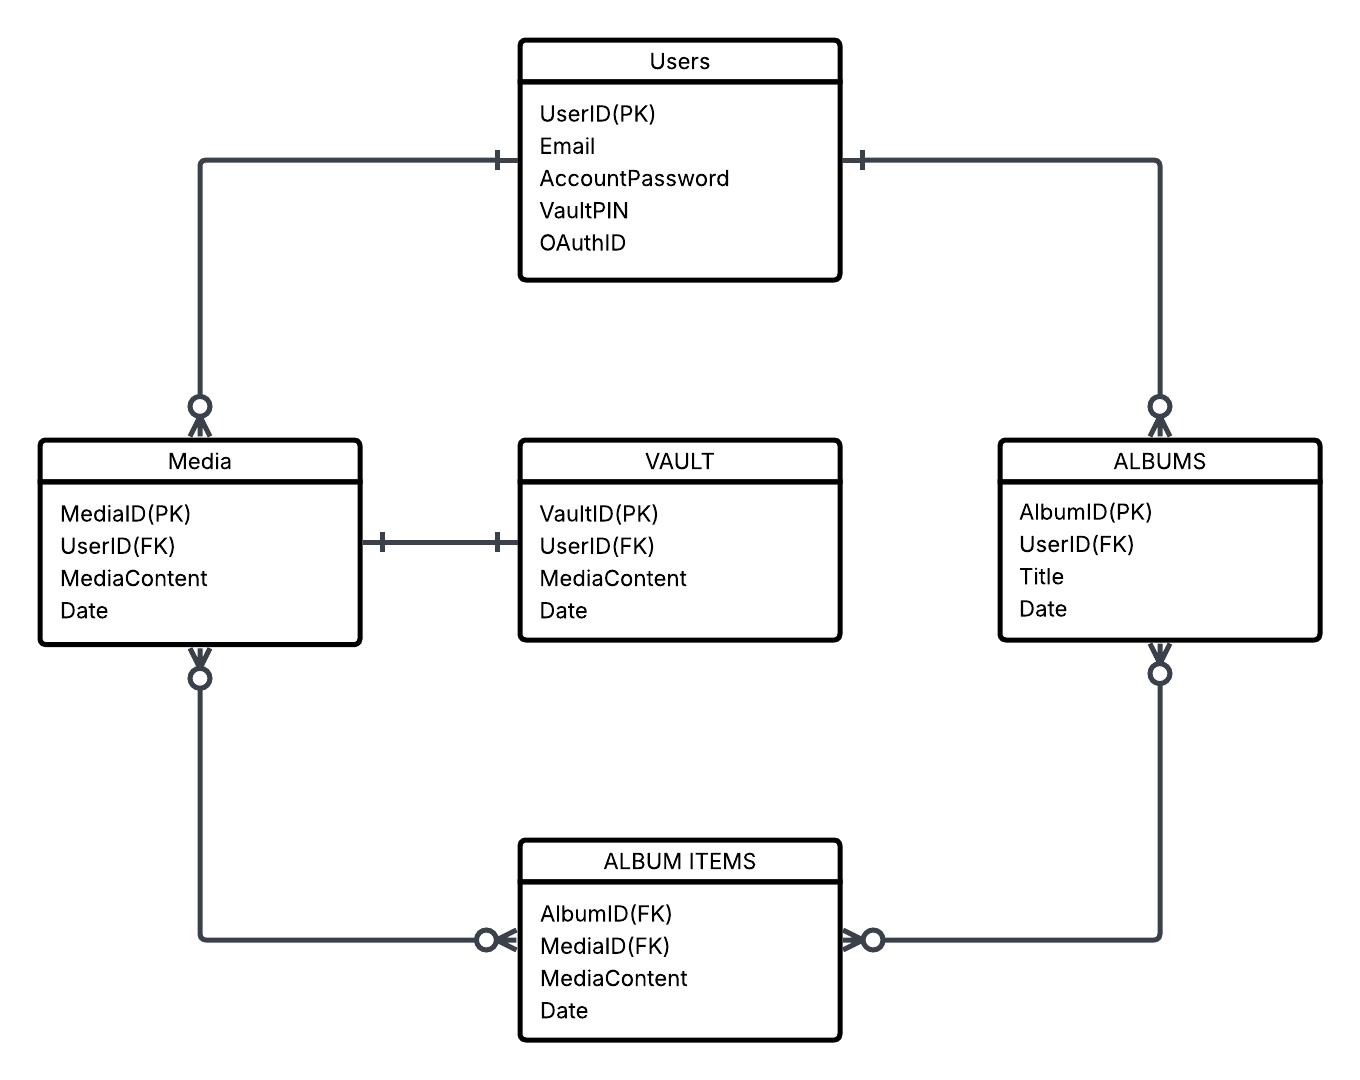
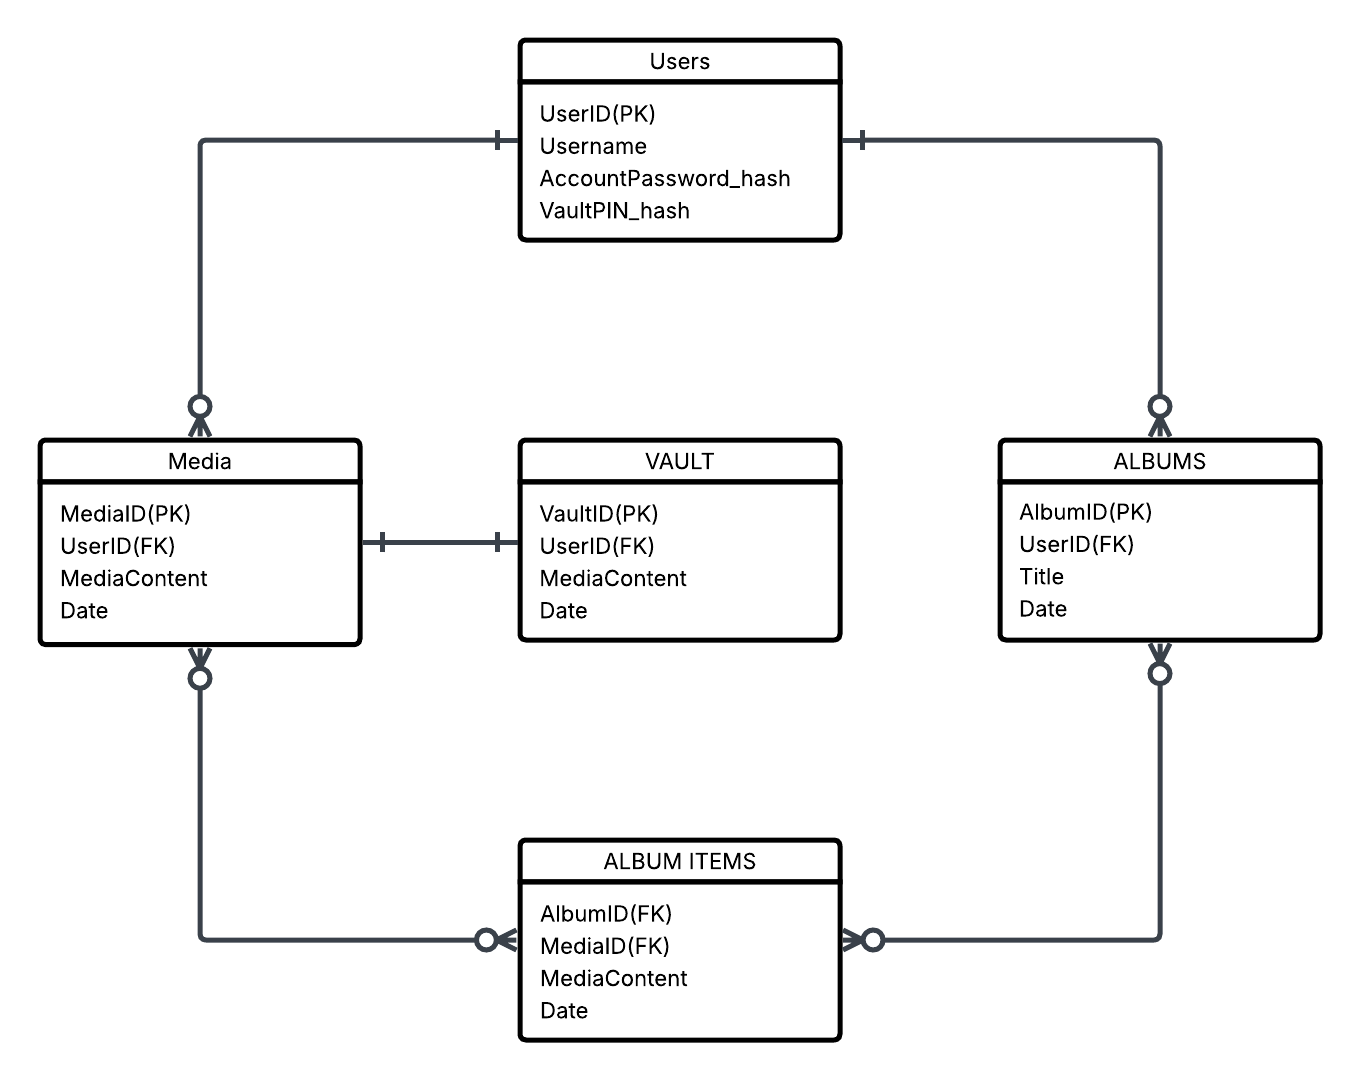
Finished Users table in schema.sql
Also updated data_model.png & spec.md. (Not using OAuth anymore)

diff --git a/docs/specs.md b/docs/specs.md
@@ -4,7 +4,7 @@
 These requirements define the behaviours and features of the application.
 
 ### 1.1. User Authentication
-- Implement OAuth to handle user account creation and email verification.
+- Implement account creation & login.
 
 ### 1.2. Photo/Video Upload
 - Allow users to upload photos and videos to the system storage.
